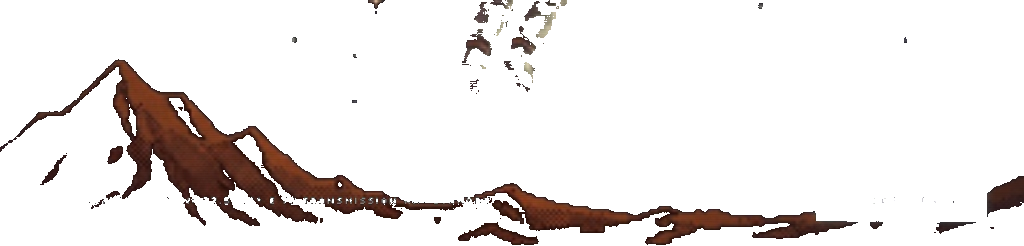
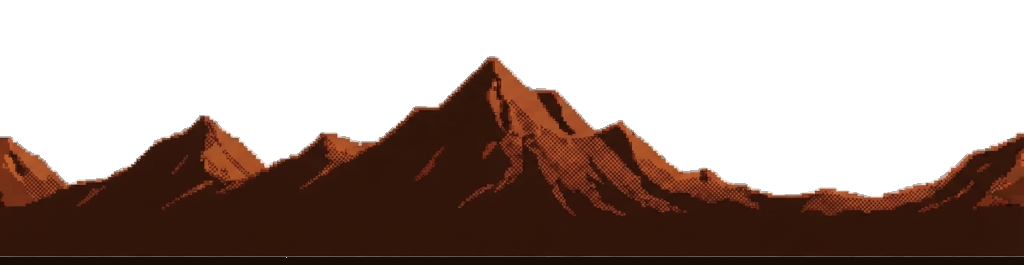
feat: add Hero component with parallax background and terrain assets

diff --git a/src/components/Hero.jsx b/src/components/Hero.jsx
@@ -76,7 +76,7 @@ export default function Hero({ onOpenArcade }) {
         </div>
 
         <h1 className="hero-title font-pixel">
-          SPACEUP <span className="hero-title-cusat">CUSAT</span>
+          SPACEUP <span className="hero-title-cusat">VOL 8</span>
         </h1>
 
         <div className="hero-info font-pixel">
